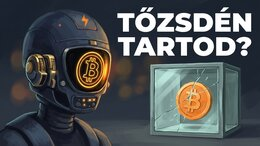
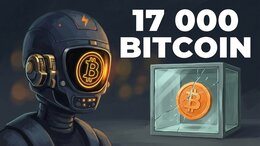
E123: kevésbé hatásvadász cím, új indexkép és bevezető, a régi URL átirányítva

Changed region(s): [[0.4308, 0.0274, 0.9846, 0.2192], [0.4308, 0.2466, 0.9846, 0.411]]

diff --git a/src/data/podcasts.ts b/src/data/podcasts.ts
@@ -2,9 +2,9 @@
 
 export const podcasts = [
     {
-        name: "Jobban, mint a Binance: így vigyázz a bitcoinodra!",
+        name: "Egy kulcs vagy több? Így őrizd biztonságban a bitcoinod",
         id: "E123",
-        intro: "Dollármilliárdokat mozgattak el a Binance-ről a támadók, a saját bitcoinodat viszont kevés tanulással jobban megvédheted, mint a világ legnagyobb tőzsdéje. Végigvesszük, mitől lesz igazán véletlen a privát kulcsod, hogyan állíts be egy több kulccsal védett multisig tárcát, és miért egyetlen kulcson múlik minden a tőzsdéken. Szó lesz az időzáras öröklésről és egy 5 dolláros chipkártyáról is, ami olyan biztonságban tartja a kulcsodat, mint egy hardvertárca.",
+        intro: "A Binance-ről 17 000 bitcoint is elmozgattak a támadók, a saját bitcoinodat viszont kevés tanulással biztonságosabban őrizheted egy tőzsdénél. Végigvesszük, mitől lesz igazán véletlen a privát kulcsod, mikor elég egyetlen kulcs, és mikor érdemes több kulccsal védett multisig tárcára váltani. Szó lesz az időzáras öröklésről és egy 5 dolláros chipkártyáról is, ami olyan biztonságban tartja a kulcsodat, mint egy hardvertárca.",
         chapters: [
         {
                 time: "00:00",

diff --git a/src/router/index.ts b/src/router/index.ts
@@ -225,6 +225,8 @@ export const routes: RouteRecordRaw[] = [
   { path: '/podcast/nyari-remix-objektiv-bitcoin-felszabadulas/', redirect: '/podcast/objektiv-bitcoin-felszabadulas/' }, // R05
   { path: '/podcast/nyari-remix-decentralizalt-tarsadalmat-epitunk/', redirect: '/podcast/decentralizalt-tarsadalmat-epitunk/' }, // R06
   { path: '/podcast/nyari-remix-szoftverfejlesztes-szabadsagtechnologiak/', redirect: '/podcast/szoftverfejlesztes-szabadsagtechnologiak/' }, // R07
+  // E123 címváltás (2026.11.14.): kevésbé hatásvadász cím
+  { path: '/podcast/jobban-mint-a-binance-igy-vigyazz-a-bitcoinodra/', redirect: '/podcast/egy-kulcs-vagy-tobb-igy-orizd-biztonsagban-a-bitcoinod/' }, // E123
   {
     path: '/404/',
     name: 'not-found',

diff --git a/retention-learnings.md b/retention-learnings.md
@@ -52,4 +52,4 @@ Minden epizódot **14 nappal a megjelenése után** lekérdezek, és egy sorban 
 | E120 | Gördülékeny kezdés: kb. 2 perc 10 mp kivágva az elejéből (köszöntés, kérdés-felvezetés, meta-mondatok), a fő sztori (a takarító 25 bitcoinja) a 3:20-nál indul. Teaser = a cím kérdésének válasza („20 dollárért 4 karamell macchiatót kapok”) + új rejtély (privát kulcsok e-mailben). Cím a vendég csatornanevével, kérdéses csattanóval („Erre ő?”); indexkép tárgy-szembeállítás egy jelenetben (4 kávéspohár vs. nagy bitcoinkupac) + **első festményszerű, félig realisztikus vendégportré** (karikatúra helyett, a felismerhetőségért; cinkos félmosoly, szemkontaktus a nézővel), kicker „4 KÁVÉÉRT?”. | 2026.10.30. | 57 / 34 / 32 / 30 | 56 / 43 / 42 / 41 | Lekérdezve 2026.11.04. (19 napos), 3475 megtekintés (a legnagyobb elérés a sorban), átl. 15:24 (27,1%). Az 1. perc átlagos, a 2. percnél viszont 23 pontot esik (átlag alatti), utána 5 és 10 percnél 4–6 ponttal az átlag felett. A nagy elérés sok kíváncsi új nézőt hozott, akik közül sokan a fő sztori indulása (3:20) előtt kiléptek; aki megvárta, az maradt. |
 | E121 | **Cím–tartalom szerkezeti eltérés:** a cím és a ~70 mp-es teaser (proof of stake olimpia → hamisítható Ethereum-lánc → „nem értik a különbséget”) a proof of stake-et ígéri, de az adás az első 22 percben hackekről (Ledger, tanúsítvány, kvantum) szól, a fő téma csak 24:52-kor indul; a köszöntésben elhangzik, hogy később jön. Kezdővágás csak ~12 mp (a jegybankelnök-rész maradt). Indexkép: **első fotószerű (nem festett) vendégportré** (ChatGPT, utólag rátett **piros lézerszemmel**) + aranyérem ezüstérmék előtt, **nagy, kétsoros** kicker „AKI FIZET, NYER”; a festett változat 2026.10.22-én lecserélve. | 2026.11.06. | 51 / 40 / 37 / 32 | 54 / 53 / 45 / 42 | Lekérdezve 2026.11.06. (14 napos), 1499 megtekintés, átl. 16:50 (32,5%). Az 1. perc 3 ponttal az átlag alatt, a 2., 5. és 10. percnél viszont 4–9 ponttal fölötte, és az 1. és 2. perc közti esés csak 11 pont; a feliratkozók is erősek. A cím és a tartalom szerkezeti eltérése nem okozott látható lemorzsolódást az első 10 percben: a hackekkel induló első rész megtartotta a nézőket. |
 | E122 | **Kezdővágás nélkül** (Árpi döntése; a fő téma az adásban 05:51-kor indul). A teaser csak a vendéggel, ~42 mp, négy részletben (a tárca kiírja az összeget → hogyan ellenőrizhető → kamu tranzakció → a képernyőn látott szám nem biztos). Rövid, 32 karakteres, kérdő cím a „hamis” szóval. Indexkép: festett vendégavatar lupéval és narancs bitcoinérmével, kicker „ELHIHETED?”. | 2026.11.20. | esedékes | | |
-| E123 | Teaser a „tőzsdén tartod?” ívvel (Feri: az ismerősök tőzsdén tartják → Openoms: harmadik fél, Binance, 17 000 bitcoin → „és ezt meg tudjuk tanulni”), kb. 50 mp. Kezdővágás ~15 mp (a köszöntés utáni meta-mondatok) + a korábbi adásra visszautaló ~27 mp. Cím: „Jobban, mint a Binance: így vigyázz a bitcoinodra!” (brandnév a hook elején, módszer-ígéret). Indexkép: a vendég festett robotavatarja (arc nélkül) + megrepedt üvegszéf bitcoinnal, kicker „TŐZSDÉN TARTOD?”. | 2026.11.27. | esedékes | | |
+| E123 | Teaser a „tőzsdén tartod?” ívvel (Feri: az ismerősök tőzsdén tartják → Openoms: harmadik fél, Binance, 17 000 bitcoin → „és ezt meg tudjuk tanulni”), kb. 50 mp. Kezdővágás ~15 mp (a köszöntés utáni meta-mondatok) + a korábbi adásra visszautaló ~27 mp. Cím: „Jobban, mint a Binance: így vigyázz a bitcoinodra!” (brandnév a hook elején, módszer-ígéret). Indexkép: a vendég festett robotavatarja (arc nélkül) + megrepedt üvegszéf bitcoinnal, kicker „TŐZSDÉN TARTOD?”. **2026.11.14-én (a megjelenés után ~15 órával) cím- és kickercsere:** „Egy kulcs vagy több? Így őrizd biztonságban a bitcoinod” + „17 000 BITCOIN”. | 2026.11.27. | esedékes | | |

diff --git a/title-learnings.md b/title-learnings.md
@@ -50,6 +50,7 @@ A véglegesített cím klikk-ereje és curiosity-gap pontja a választáskor, ho
 | E121 | Bitcoin vs kripto: mit nem tud a proof of stake? | 4 | 2 | fan + búvárkodó (közösen, a vendég kérésére finomítva az „átverés”-ből; szakszó a hook helyén, „kripto” keresőszó; a fő téma csak a 23. percben indul) |
 | E122 | Küldhetnek neked hamis bitcoint? | 5 | 3 | új tech-érdeklődő + fan (rövid, 32 kar.; a „hamis” a tét szava, a szakszó lemegy a leírásba; teaser csak a vendéggel, kezdővágás nélkül) |
 | E123 | Jobban, mint a Binance: így vigyázz a bitcoinodra! | 5 | 2 | új tech-érdeklődő + tőzsdén tartók (a brandnév a 15. karakternél, mobilon is látszik; módszer-ígéret, a teaser „meg tudjuk tanulni” zárása erősíti; A/B-alternatíva: „Jobban vigyázhatsz a bitcoinodra, mint a Binance?”) |
+| E123 (újracímezve 2026.11.14.) | Egy kulcs vagy több? Így őrizd biztonságban a bitcoinod | 4 | 2 | fan + búvárkodó (az első 15 órában a legkevesebb megtekintés az utolsó 10 videó közül, CTR 8,6%, átl. 14:24 — feltevés: a „Binance”/„TŐZSDÉN TARTOD?” csomag a saját kulcsot már használó feliratkozóknak „nem nekem szól”; csere kevésbé hatásvadász címre és „17 000 BITCOIN” kickerre, A/B-teszt nélkül) |
 
 ## Bejegyzések
 
